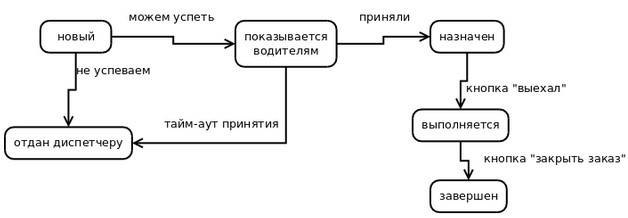
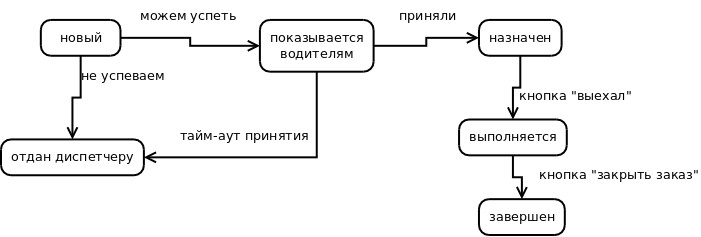
Changed to original pictures
- Ispravil huynyu s kartinkami
- V image zamenil starye kartinki na nujnie

Changed region(s): [[0.0, 0.055, 0.9984, 1.0]]

diff --git a/Taxi - Aggregator (TS v3.1)/chapters/sections.appendices/adaptive_alg_orders_distr.tex b/Taxi - Aggregator (TS v3.1)/chapters/sections.appendices/adaptive_alg_orders_distr.tex
@@ -36,7 +36,7 @@
 
     	Допустим в диспетчерскую поступило два заказа - Z1 и Z2, и поблизости от них есть два свободных водителя с включенным роботом - В1 и В2.
 
-    	\includegraphics{images/appendices/appendix_example}
+    	\includegraphics[width=\textwidth]{images/appendices/appendix_example}
 
     	Заказ Z2 более срочный - 15 минут до подачи машины, Z1 менее срочный - 30 минут.
 
@@ -95,13 +95,13 @@
 
 		\subsubsection{Состояния водителей}
 
-			\includegraphics{images/appendices/drivers_state}
+			\includegraphics[width=\textwidth]{images/appendices/drivers_state}
 
 			Примечание: пока водитель находится в состоянии “предварительно назначен”, на него могут многократно назначаться новые заказы (с перенесением старых на других водителей). Подтверждение водителя, что он “в курсе” требуется только при первом назначении.
 
 		\subsubsection{Состояния заказов}
 
-			\includegraphics{images/appendices/orders_state}
+			\includegraphics[width=\textwidth]{images/appendices/orders_state}
 
 			Примечание: пока заказ находится в состоянии “предварительно назначен”, он может быть многократно переназначен на другого водителя (это происходит по мере поступления новых заказов, которые невозможно выполнить вовремя при сохранении старых назначений).
 

diff --git a/Taxi - Aggregator (TS v3.1)/chapters/sections.appendices/alternative_alg_orders_distr.tex b/Taxi - Aggregator (TS v3.1)/chapters/sections.appendices/alternative_alg_orders_distr.tex
@@ -6,7 +6,7 @@
 
 	Диаграмма:
 
-	\includegraphics{images/appendices/alt_alg}
+	\includegraphics[width=\textwidth]{images/appendices/alt_alg}
 
 	\subsection{Фильтрация водителей}
 
